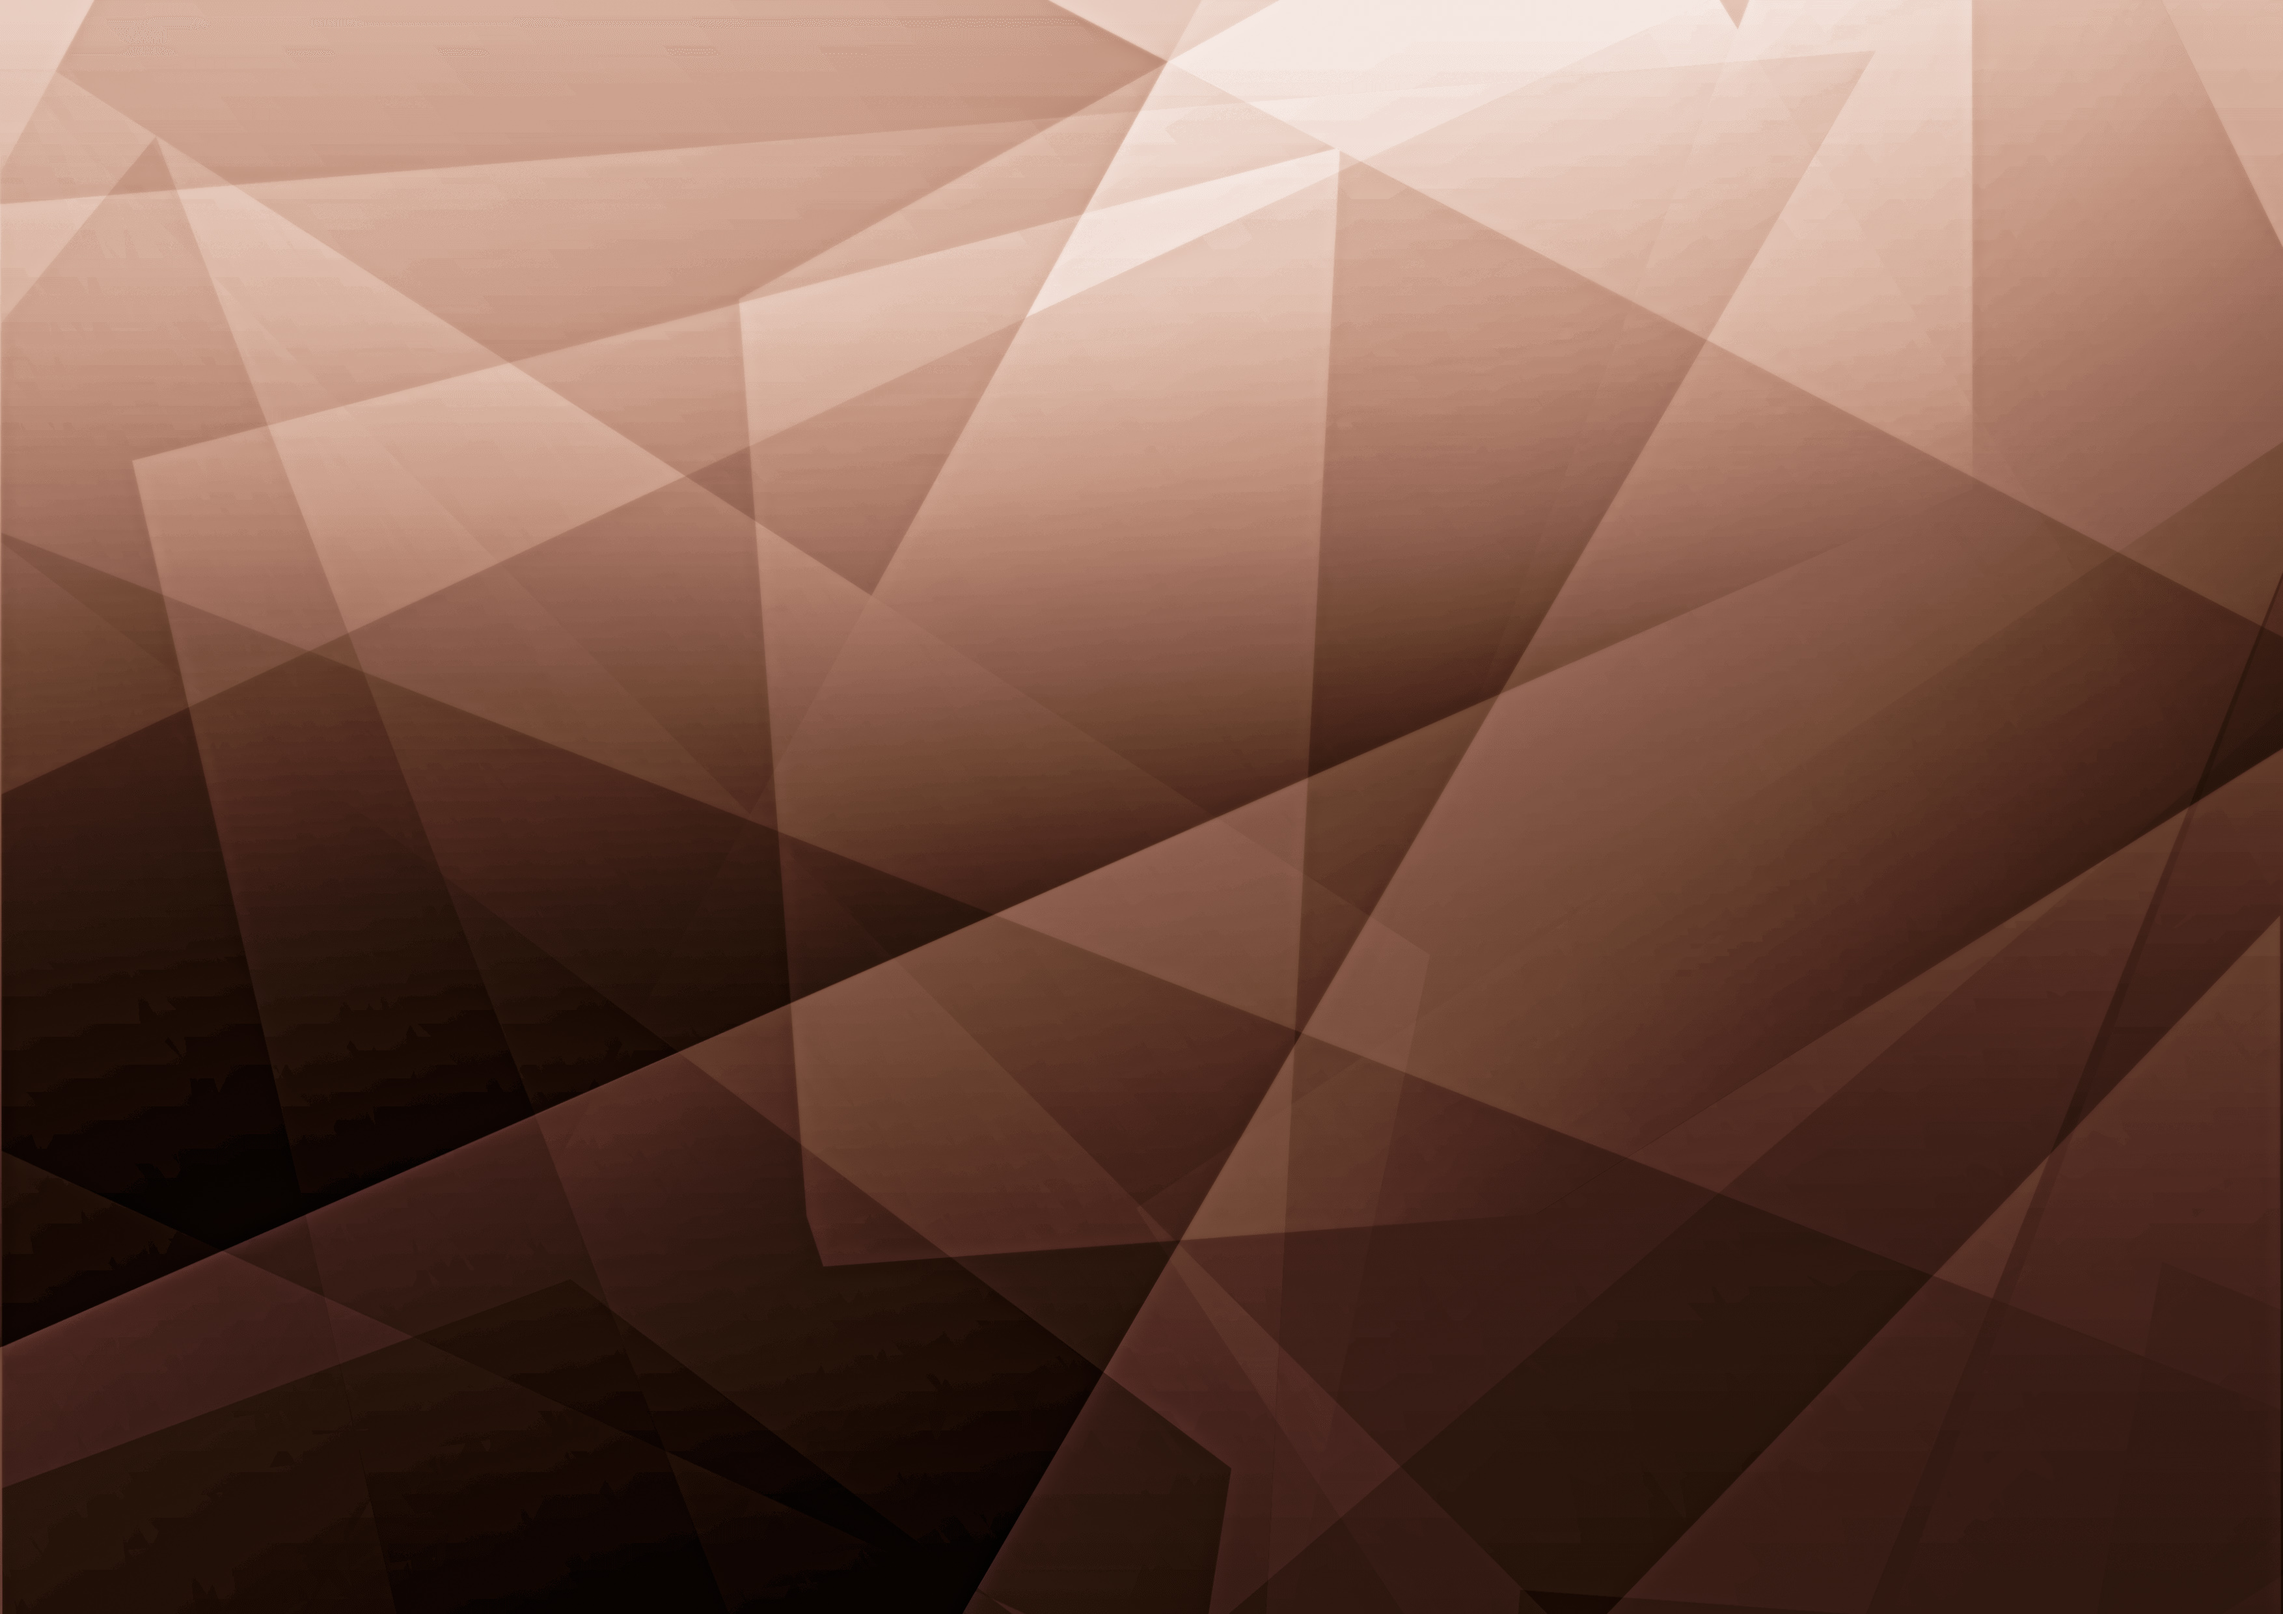
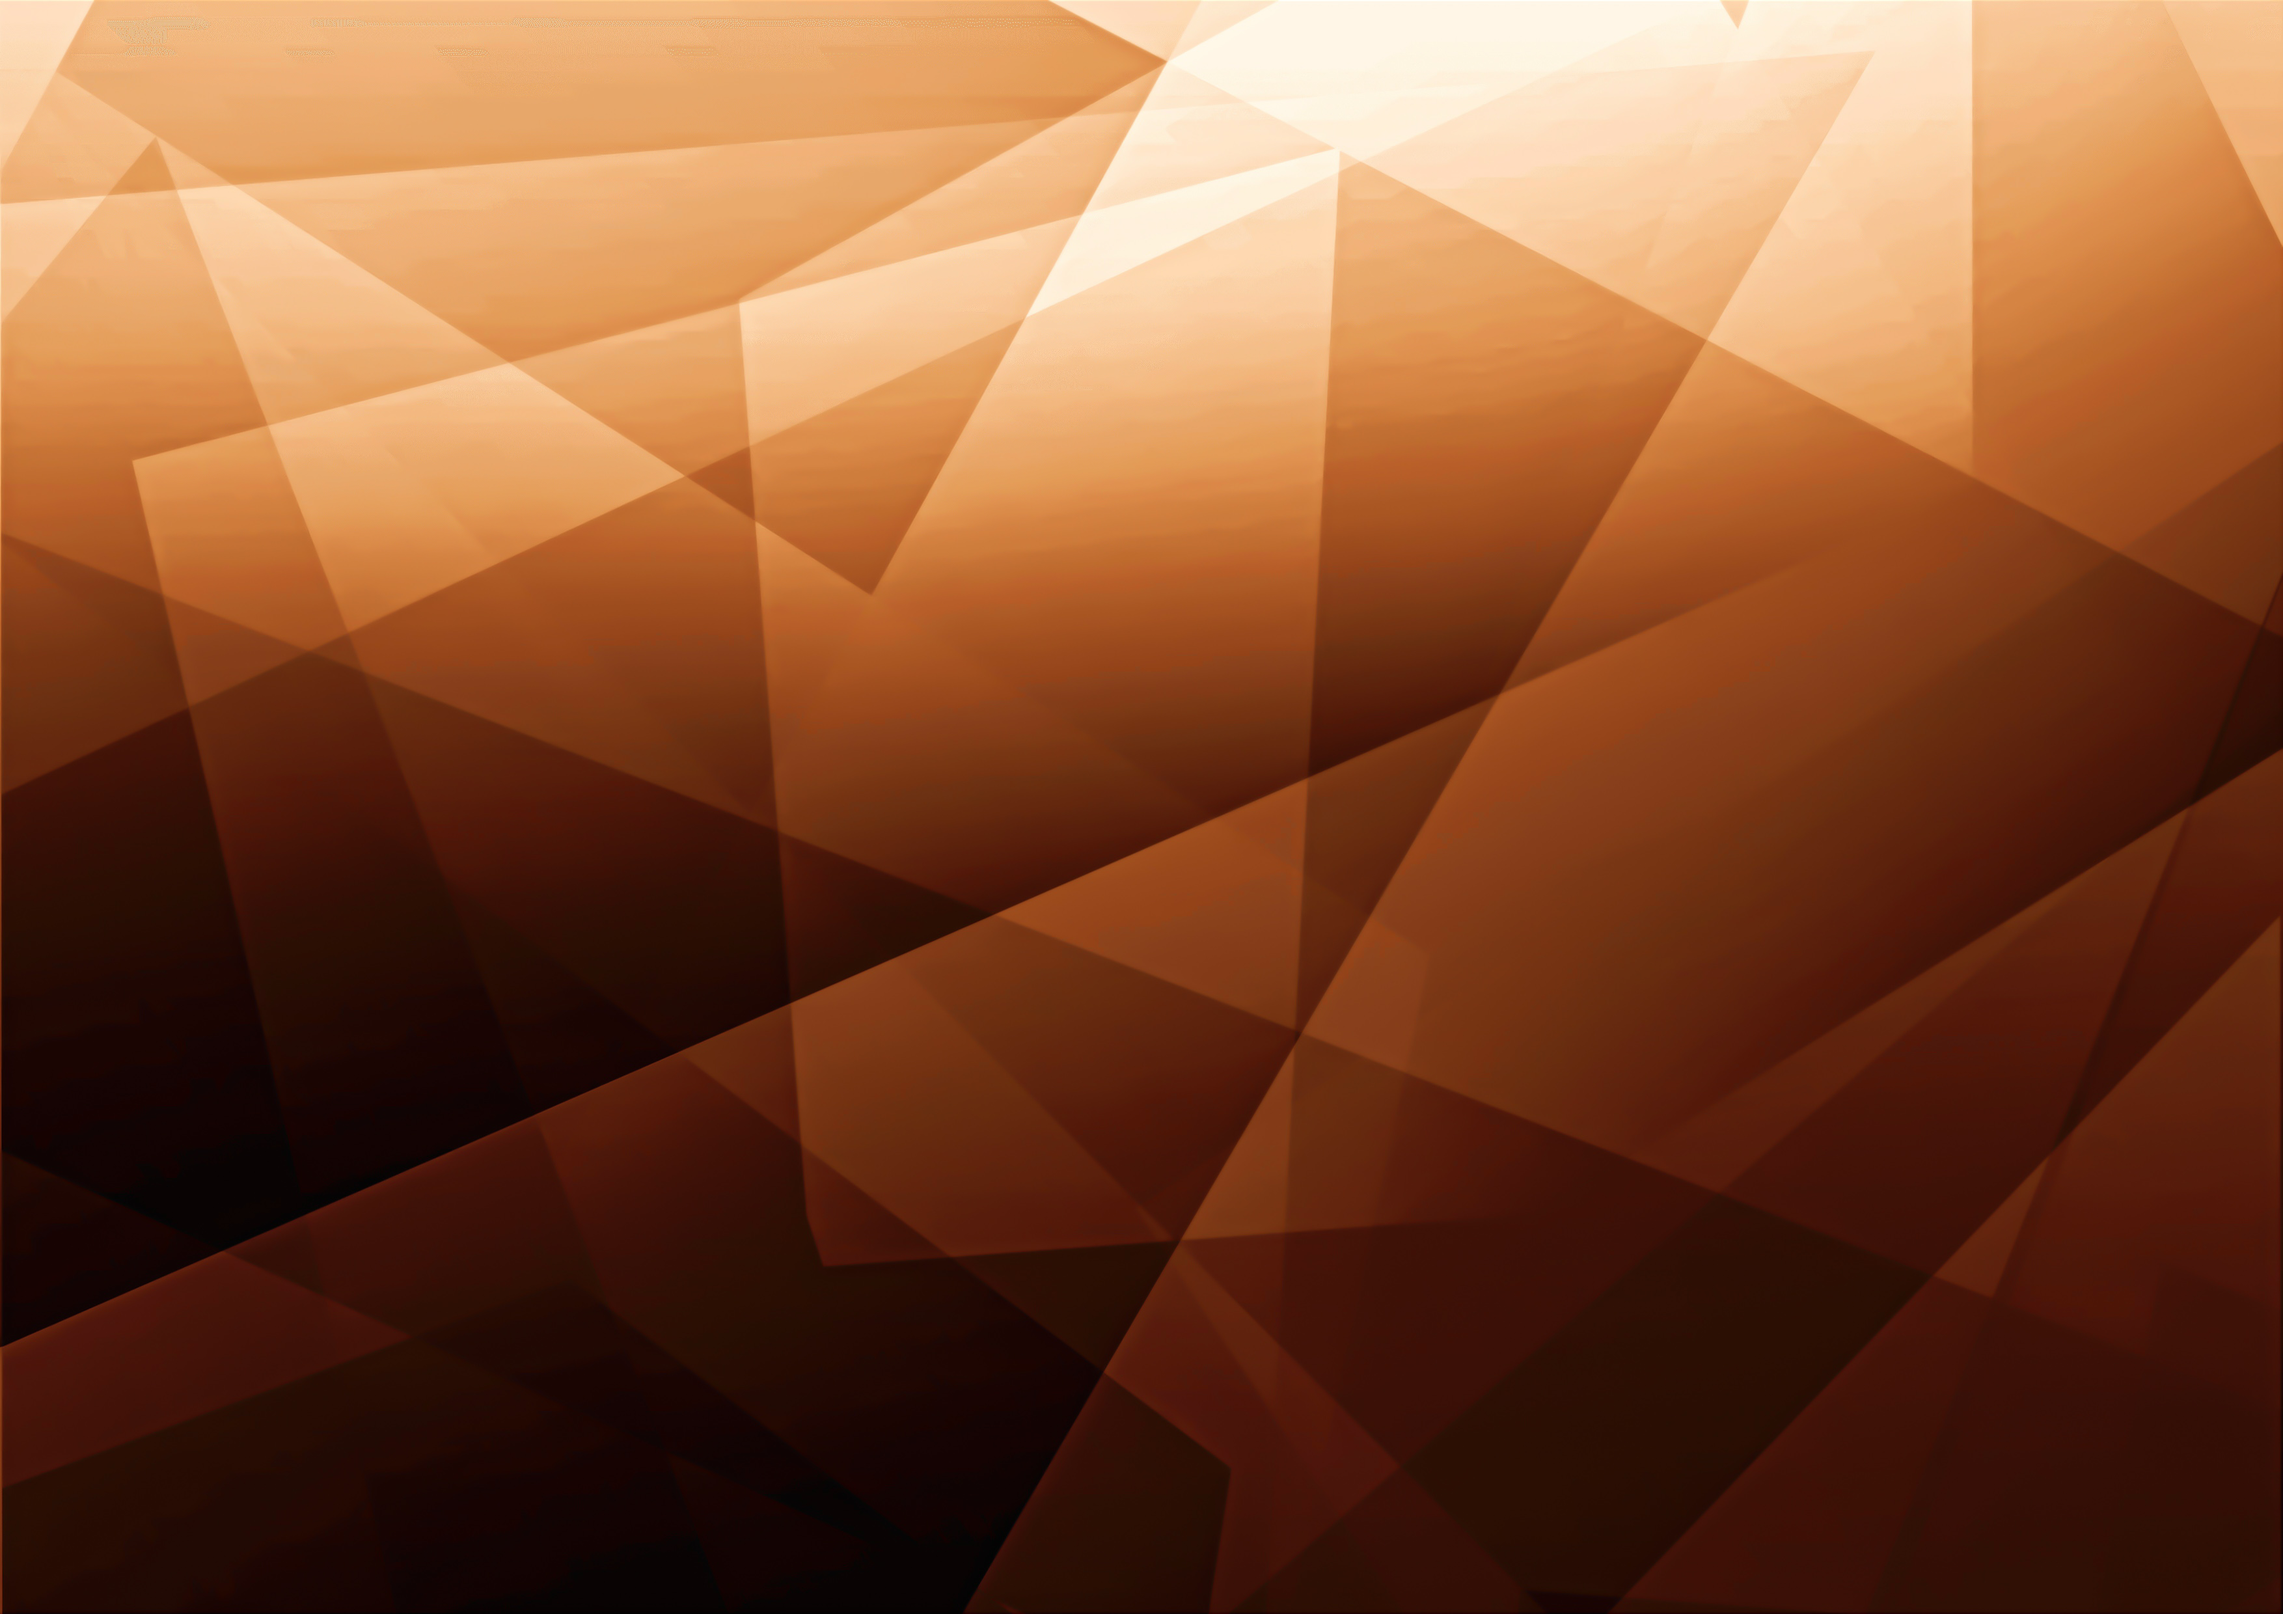
BG change and Abstract Format changed

diff --git a/index.html b/index.html
@@ -698,7 +698,7 @@
 									<a href="mailto:track5@vcet.edu.in">Track 5</a>
 								</li>
 								<li>
-									A sample abstract would look like <a href='ieee-format.pdf' target="_blank"
+									A sample abstract would look like <a href='IEEE_Template.doc' target="_blank"
 										class="link">this</a>
 								</li>
 								<li>
